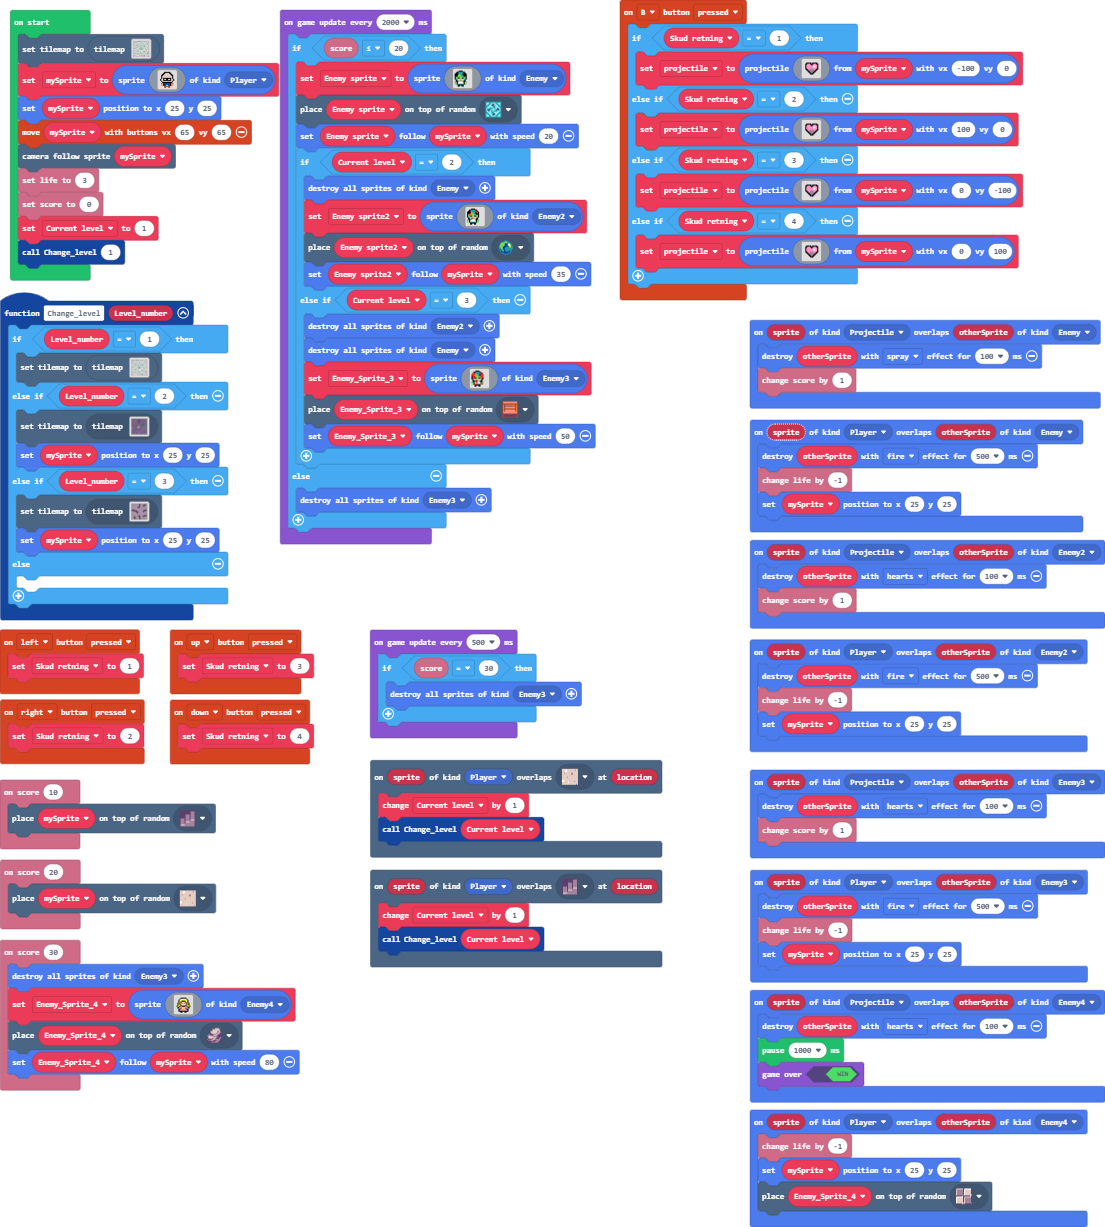
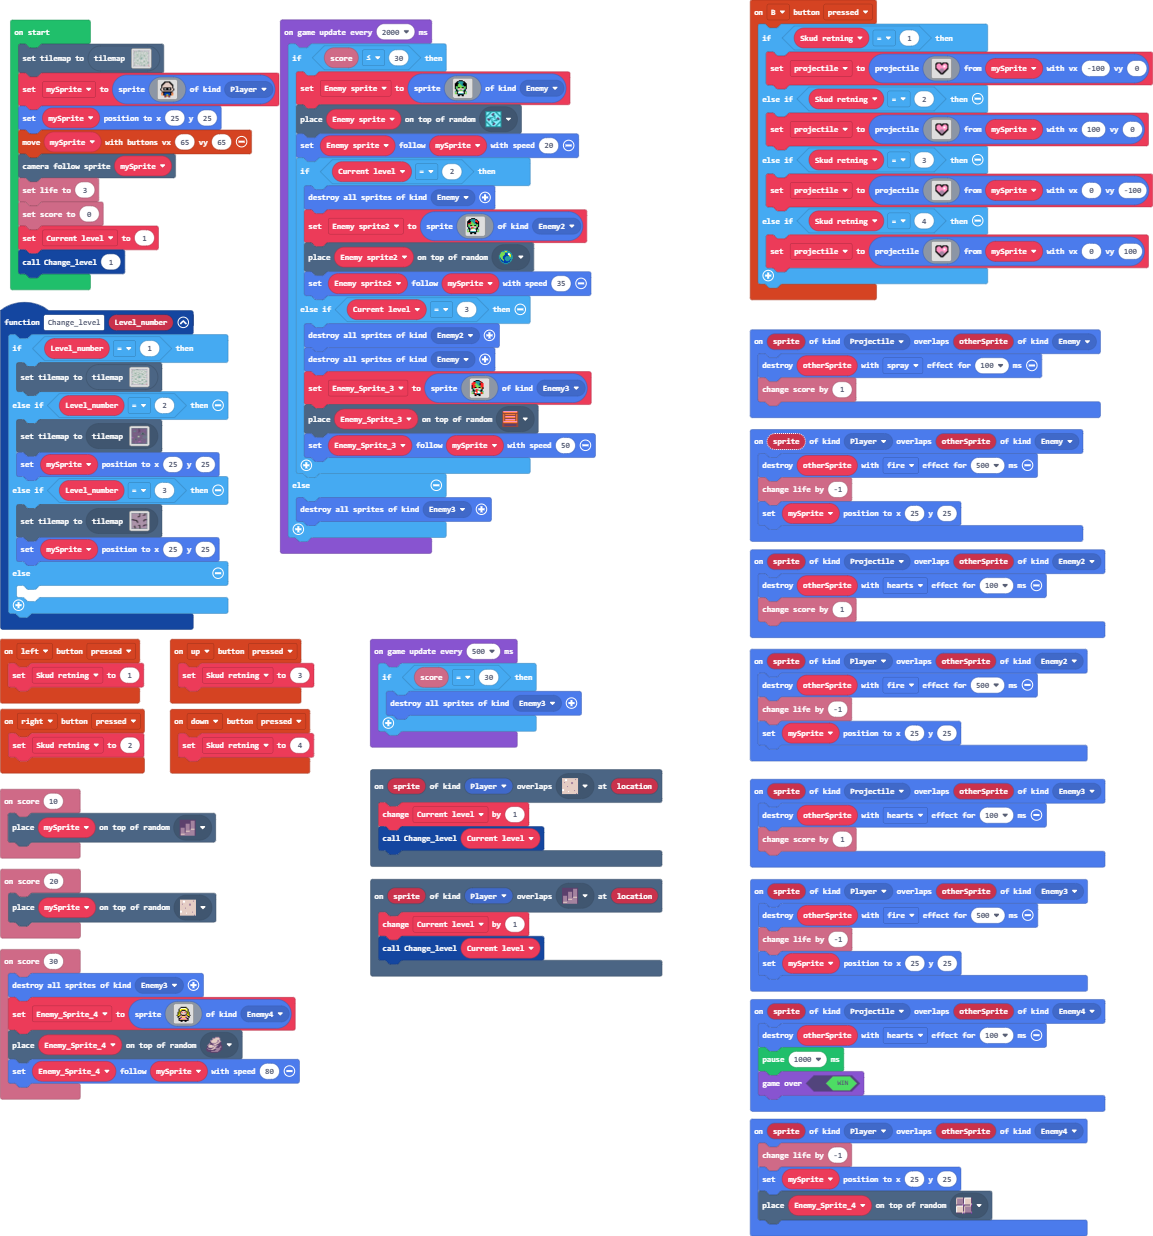
Update main.blocks, main.ts

diff --git a/main.ts b/main.ts
@@ -182,7 +182,7 @@ info.setScore(0)
 Current_level = 1
 Change_level(1)
 game.onUpdateInterval(2000, function () {
-    if (info.score() <= 20) {
+    if (info.score() <= 30) {
         Enemy_sprite = sprites.create(assets.image`myImage`, SpriteKind.Enemy)
         tiles.placeOnRandomTile(Enemy_sprite, sprites.dungeon.collectibleInsignia)
         Enemy_sprite.follow(mySprite, 20)
